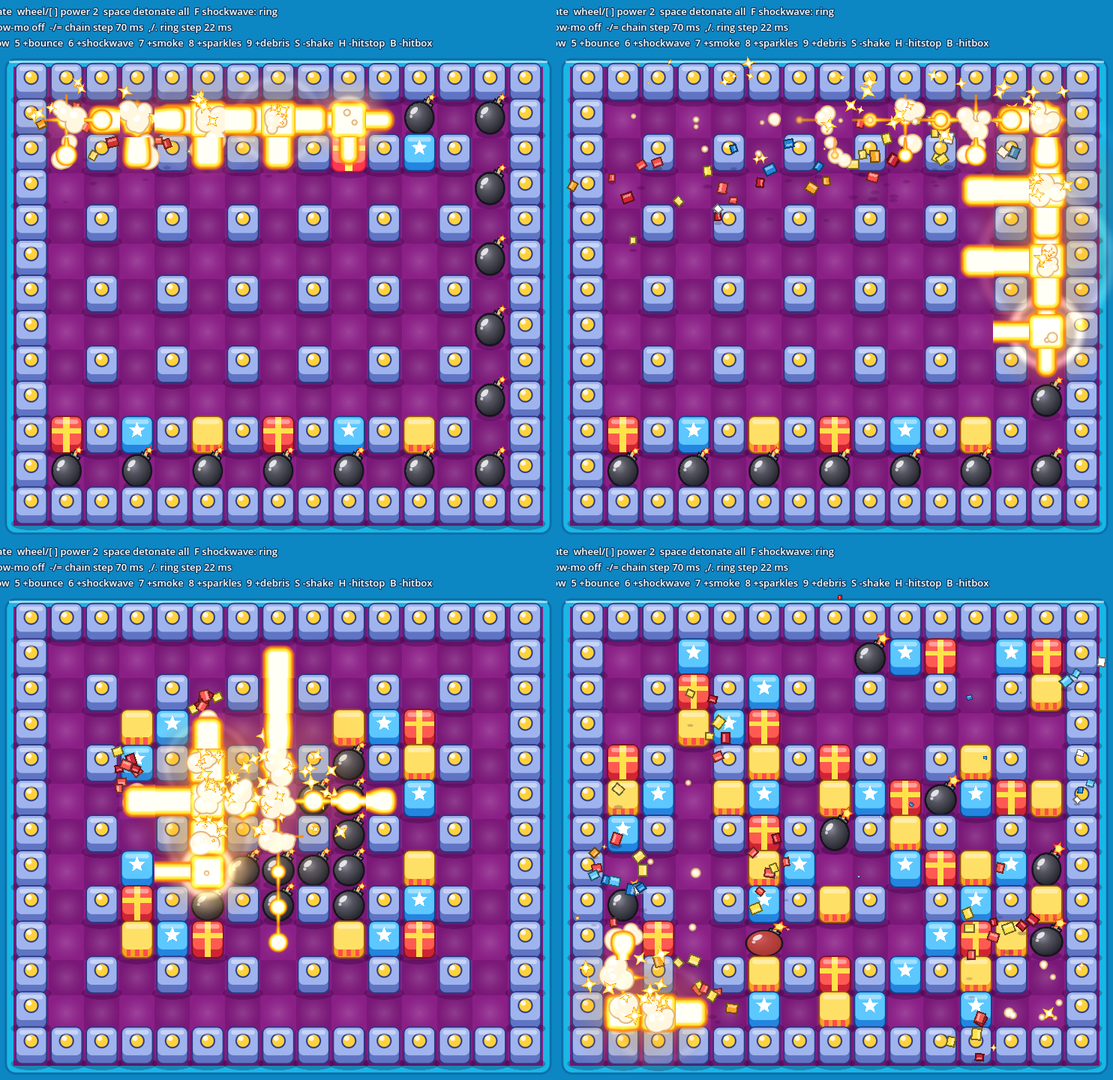
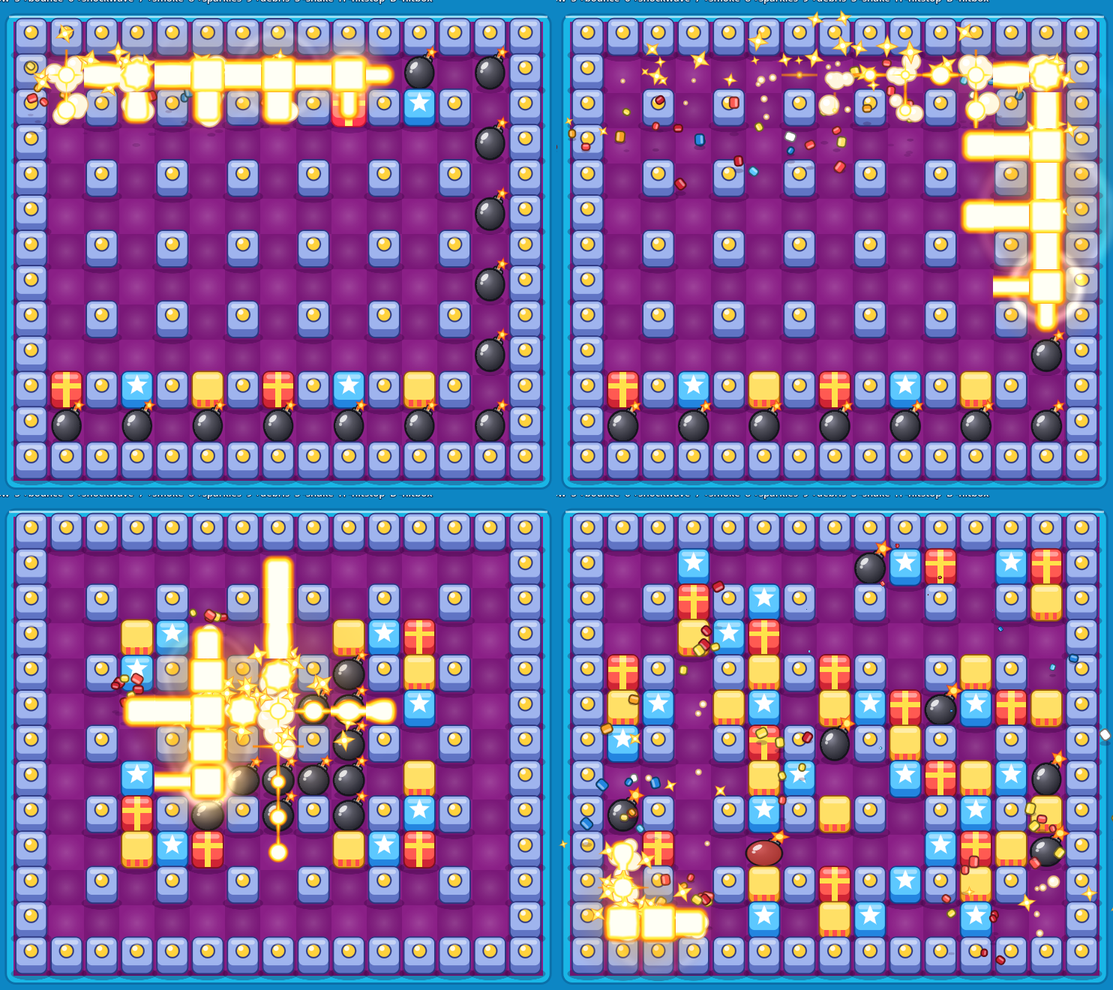
Explosion lab: merge chained blasts into one beam, smooth shape edges
Each flame cell is drawn as three colour layers (rim, band, core) on rising
z, so overlapping cells and crossing blasts merge into one shape. A ray's
tip that faces another burning cell opens into a plain arm, so chained
blasts no longer meet as two rounded ends with a notch.

The Compatibility renderer has no 2D MSAA, so stars, chunks and the bomb
cap now bring their own edge smoothing (toon_draw.gd).

Claude-Session: https://claude.ai/code/session_01VW1GsVCsr1tKW79LQdamJ3

diff --git a/experiments/explosion_lab/README.md b/experiments/explosion_lab/README.md
@@ -91,7 +91,8 @@ judge.
 | Blocks and bombs | Drawn by hand (rounded boxes, circles, outlines) on one y-sorted layer; no textures, lights or normal maps | `block_view.gd`, `bomb_view.gd` |
 | Debris | Custom outlined chunks with ground position plus height, and a shadow that shrinks with height (2.5D) | `debris.gd` |
 | Flash and glow | Alpha-blended radial sprites: 0.12 s white flash, 0.4 s yellow swell | `_flash` |
-| Flame | One shared shader on per-cell quads: signed-distance shapes (block, band, rounded tip, then ball with streaks) coloured by distance from the edge; toggle `core` drops the white middle | `flame.gdshader` |
+| Flame | One shared shader on per-cell quads: signed-distance shapes (block, band, rounded tip, then ball with streaks). Each cell is drawn as three colour layers (rim, band, core) on rising z, so overlapping cells and crossing blasts merge into one shape; toggle `core` drops the white layer | `flame.gdshader`, `_add_flame` |
+| Joined chains | A ray's tip facing another burning cell opens into a plain arm once that cell shows | `_link_tips` |
 | Puffs and sparkles | Hand-drawn outlined circles and stars; stars launch up against gravity so they arc and fall (fake z) | `toon_fx.gd` |
 | Bounce | Blocks and bombs within reach squash and spring back, nearest first | `_bounce_around` |
 | Shockwave | Additive light ring (default) or screen-texture refraction (`F`) | `shockwave_*.gdshader` |
@@ -113,8 +114,8 @@ clock.
   reported load and first-use stutter on web exports; the lab now uses no particle
   nodes at all (puffs, stars and chunks are drawn by hand).
 - **No 2D MSAA:** Godot 4.5 reports "2D MSAA is not yet supported for GLES3", so
-  circles and rounded boxes use their own antialiasing and polygons (stars, chunks)
-  have hard edges.
+  shapes bring their own smoothing: circles and rounded boxes use the built-in
+  antialiasing, polygons (stars) get a one-pixel feathered edge line (`toon_draw.gd`).
 - **Screen-texture refraction:** under Compatibility on llvmpipe, the copied screen
   came back brighter than the screen, showing as a pale disc, and a `pow(2.2)` fix
   overshot. Refraction stays opt-in (`F`) until it is checked on a phone GPU.
@@ -126,8 +127,7 @@ clock.
   next entry. The comment there ("live registry removal") suggests this is
   deliberate; no change was made.
 - **Flame quads need headroom:** arms are 1.02 x 1.45 cells and the centre quad is 1.45
-  cells, so the soft rim never reaches the quad border. Arms draw over centres, so a
-  centre's rim never cuts across an arm's white middle.
+  cells, so the soft rim never reaches the quad border.
 
 ## Sources
 
@@ -141,8 +141,6 @@ clock.
 
 ## Next ideas
 
-- Join the facing ends of two chained blasts into one beam (they now meet as two
-  rounded tips).
 - Audio sync: fire `bomb` once per chain step rather than once per tick, to match the
   visual stagger.
 - Decide with the owner whether chain stagger belongs in the new-art profile at all.
